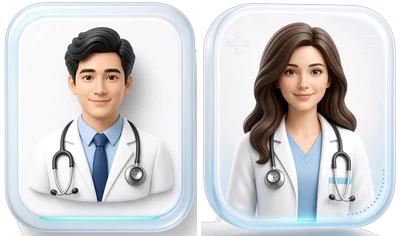
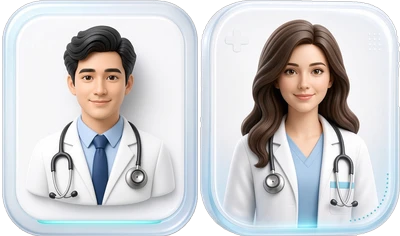
Add files via upload

diff --git a/farmacia.py b/farmacia.py
@@ -310,6 +310,7 @@ def schermata_farmacia():
         st.session_state.pop("fa_modulo_med", None)
         st.session_state.pop("fa_modulo_foglio", None)
         st.session_state.pop("fa_modulo_dottore", None)
+        st.session_state.pop("fa_modulo_sanitario", None)
         st.session_state["farmacia_aperta"] = False
         st.rerun()
     st.markdown("<div class='fa-hero'><h1>🏥 Farmacia</h1><p>Medicinali e scadenze della tua famiglia</p></div>",
@@ -325,6 +326,9 @@ def schermata_farmacia():
         return
     if st.session_state.get("fa_modulo_dottore"):
         _fa_modulo_dottore(**st.session_state["fa_modulo_dottore"])
+        return
+    if st.session_state.get("fa_modulo_sanitario"):
+        _fa_modulo_sanitario(**st.session_state["fa_modulo_sanitario"])
         return
 
     if st.button("🔎 Trova una farmacia aperta", key="fa_trova", type="primary", width="stretch"):
@@ -1060,6 +1064,7 @@ def _fa_esporta(f, pid, nomi):
         chiavi = ("medicinali", "terapie", "visite", "vaccinazioni")
         dati = {"profilo": nomi[pid],
                 "dottore": next((p.get("dottore") for p in f.get("profili", []) if p["id"] == pid), None),
+                "scheda_sanitaria": next((p.get("sanitario") for p in f.get("profili", []) if p["id"] == pid), None),
                 "gruppo_sanguigno": next((p.get("gruppo") for p in f.get("profili", []) if p["id"] == pid), None)}
         for k in chiavi:
             dati[k] = [x for x in f.get(k, []) if x.get("profilo", "p0") == pid]
@@ -1417,6 +1422,10 @@ def _fa_html_report(f, pid, nomi, da, a, righe, riepilogo, oggi_):
     e = html.escape
     terapie = [t_ for t_ in f.get("terapie", []) if t_.get("profilo", "p0") == pid and t_.get("stato", "attiva") == "attiva"]
     allergie = (f.get("allergie") or {}).get(pid, [])
+    san = next((p.get("sanitario") for p in f.get("profili", []) if p["id"] == pid), None) or {}
+    blocco_san = "".join(f"<h2>{tit}</h2><p>{e(san[k]).replace(chr(10), '<br>')}</p>"
+                         for tit, k in (("Patologie", "patologie"), ("Interventi subiti", "interventi"),
+                                        ("Storia clinica di rilievo", "storia")) if san.get(k))
     celle = lambda riga: "".join(f"<td>{e(str(c))}</td>" for c in riga)
     t_ter = "".join("<tr>" + celle([_fa_nome_med(f, t_.get("med"), t_.get("nome_med", "")), t_.get("quantita", ""),
                                     ", ".join(GIORNI_SETT[g] for g in t_.get("giorni", [])),
@@ -1435,6 +1444,7 @@ table{{border-collapse:collapse;width:100%;font-size:.85rem}}th,td{{border:1px s
 <p>Gruppo sanguigno: <b>{e(next((p.get("gruppo") for p in f.get("profili", []) if p["id"] == pid), None) or "non indicato")}</b></p>
 <div class="box"><b>Riepilogo:</b> {riepilogo}</div>
 <h2>Allergie e intolleranze dichiarate</h2><p>{e(", ".join(allergie)) if allergie else "Nessuna dichiarata"}</p>
+{blocco_san}
 <h2>Terapie attive</h2><table><tr><th>Medicinale</th><th>Quantità</th><th>Giorni</th><th>Orari</th><th>Periodo</th><th>Note</th></tr>{t_ter}</table>
 <h2>Assunzioni</h2><table><tr><th>Data</th><th>Ora prevista</th><th>Medicinale</th><th>Quantità</th><th>Stato</th><th>Registrata il</th></tr>{t_dosi}</table>
 <p class="nota">Documento creato dall'app «La nostra dispensa» con i dati inseriti dall'utente. «Presa» significa che la persona ha toccato
@@ -1506,8 +1516,10 @@ def _fa_icone_gruppi():
 
 
 def _fa_scheda_gruppo(nome, gruppo):
-    stile = ("display:flex;align-items:center;gap:10px;background:rgba(255,255,255,.78);border-radius:18px;"
-             "padding:8px 10px;margin:0;color:#1b2b2b;min-width:0")
+    stile = ("display:flex;align-items:center;gap:10px;background:rgba(255,255,255,.82);border-radius:18px;"
+             "padding:8px 10px;margin:0;color:#1b2b2b;min-width:0;border:2px solid rgba(183,28,28,.35);"
+             "animation:fa-pulso-r 2.6s infinite")
+    freccia = "<div style='margin-left:auto;font-size:1.8rem;color:#b71c1c;font-weight:900;line-height:1'>›</div>"
     if gruppo:
         try:
             uri = _fa_icone_gruppi().get(gruppo)
@@ -1515,13 +1527,15 @@ def _fa_scheda_gruppo(nome, gruppo):
             uri = None
         goccia = (f"<img src='{uri}' alt='{html.escape(gruppo)}' style='height:72px;flex:0 0 auto'>" if uri
                   else "<span style='font-size:2rem'>🩸</span>")
-        st.markdown(f"<div style='{stile}'>{goccia}<div style='min-width:0;word-break:break-word'>"
-                    f"<b style='font-size:1rem;line-height:1.15'>{html.escape(nome)}</b><br>"
-                    f"<span style='font-size:.78rem'>Gruppo sanguigno</span><br>"
-                    f"<b style='font-size:1.5rem;color:#b71c1c;line-height:1.1'>{html.escape(gruppo)}</b></div></div>",
-                    unsafe_allow_html=True)
+        corpo = (f"<b style='font-size:1rem;line-height:1.15'>{html.escape(nome)}</b><br>"
+                 f"<span style='font-size:.78rem'>Gruppo sanguigno</span><br>"
+                 f"<b style='font-size:1.5rem;color:#b71c1c;line-height:1.1'>{html.escape(gruppo)}</b>")
     else:
-        st.caption("🩸 Gruppo sanguigno non indicato: puoi sceglierlo in «Gestisci profili».")
+        goccia = "<span style='font-size:2rem'>🩸</span>"
+        corpo = (f"<b style='font-size:1rem;line-height:1.15'>{html.escape(nome)}</b><br>"
+                 "<span style='font-size:.78rem'>Gruppo sanguigno non indicato</span>")
+    st.markdown(f"<div style='{stile}'>{goccia}<div style='min-width:0;word-break:break-word'>{corpo}</div>{freccia}</div>",
+                unsafe_allow_html=True)
 
 
 def _fa_elenco_medicinali(f, pid, visibili, vista, oggi_):
@@ -1631,6 +1645,11 @@ def _fa_html_completo(d, oggi_):
                          + (f" · tel. {e(dott['telefono'])}" if dott.get("telefono") else "")
                          + (f" · {e(dott['email'])}" if dott.get("email") else "")
                          + (f" · {e(dott['indirizzo'])}" if dott.get("indirizzo") else "") + "</p>")
+        san = p.get("sanitario") or {}
+        for titolo_s, chiave_s in (("Patologie", "patologie"), ("Interventi subiti", "interventi"),
+                                   ("Storia clinica di rilievo", "storia"), ("Familiarità", "famiglia"), ("Altre informazioni", "altro")):
+            if san.get(chiave_s):
+                parti.append(f"<p><b>{titolo_s}:</b><br>{e(san[chiave_s]).replace(chr(10), '<br>')}</p>")
         meds = [m for m in f.get("medicinali", []) if m.get("profilo", "p0") == pid]
         parti.append(_fa_tabella_html("Medicinali", ["Nome", "Marca", "Principio attivo", "Dosaggio", "Forma", "Quantità",
                                                       "Scadenza", "Acquisto", "Note"],
@@ -1999,7 +2018,7 @@ def _fa_icone_dottori():
 
 
 def _fa_riga_profilo(profili, pid, nome, gruppo):
-    """Una sola striscia: a sinistra il gruppo sanguigno, a destra l'immagine del dottore, che è un pulsante."""
+    """Una sola striscia: a sinistra il gruppo sanguigno (apre la scheda sanitaria), a destra l'immagine del dottore."""
     dott = next((p.get("dottore") for p in profili if p["id"] == pid), None) or {}
     tipo = dott.get("tipo")
     try:
@@ -2016,25 +2035,40 @@ def _fa_riga_profilo(profili, pid, nome, gruppo):
         "{flex:0 0 112px !important;width:112px !important;min-width:112px !important}"
         ".st-key-fa_dottore_btn [data-testid='stButton'],.st-key-fa_dottore_btn2 [data-testid='stButton']{width:100%}"
         ".st-key-fa_dottore_btn button{width:100%;height:auto;aspect-ratio:200/236;min-height:0;border-radius:22px;"
-        "border:2px solid rgba(255,255,255,.95);padding:0;font-size:2.6rem;color:transparent;"
+        "border:0;padding:0;font-size:2.6rem;color:transparent;"
         f"background:{sfondo}rgba(255,255,255,.7);animation:fa-pulso 2.6s infinite}}"
         ".st-key-fa_dottore_btn button p{font-size:0}"
         "@keyframes fa-pulso{0%{box-shadow:0 0 0 0 rgba(13,148,136,.55)}70%{box-shadow:0 0 0 12px rgba(13,148,136,0)}"
         "100%{box-shadow:0 0 0 0 rgba(13,148,136,0)}}"
-        ".st-key-fa_dottore_btn2 button{width:100%;min-height:34px;border-radius:999px;border:0;padding:3px 6px;"
-        "background:linear-gradient(135deg,#00a98f,#0288d1);box-shadow:0 3px 0 rgba(0,70,90,.3)}"
-        ".st-key-fa_dottore_btn2 button p{color:#fff !important;font-weight:800 !important;font-size:.72rem !important;"
-        "line-height:1.1;margin:0}"
+        "@keyframes fa-pulso-r{0%{box-shadow:0 0 0 0 rgba(198,40,40,.5)}70%{box-shadow:0 0 0 10px rgba(198,40,40,0)}"
+        "100%{box-shadow:0 0 0 0 rgba(198,40,40,0)}}"
+        ".st-key-fa_dottore_btn2 button,.st-key-fa_gruppo_btn2 button{width:100%;min-height:34px;border-radius:999px;border:0;padding:3px 6px}"
+        ".st-key-fa_dottore_btn2 button{background:linear-gradient(135deg,#00a98f,#0288d1);box-shadow:0 3px 0 rgba(0,70,90,.3)}"
+        ".st-key-fa_gruppo_btn2 button{background:linear-gradient(135deg,#c62828,#ef5350);box-shadow:0 3px 0 rgba(110,20,20,.35)}"
+        ".st-key-fa_dottore_btn2 button p,.st-key-fa_gruppo_btn2 button p{color:#fff !important;font-weight:800 !important;"
+        "font-size:.78rem !important;line-height:1.1;margin:0}"
+        ".st-key-fa_gruppo_btn2 [data-testid='stButton']{width:100%}"
+        ".st-key-fa_gruppo_box{position:relative}"
+        ".st-key-fa_gruppo_btn{position:absolute !important;top:0;left:0;right:0;bottom:0;width:100% !important;"
+        "height:100% !important;margin:0 !important;z-index:3}"
+        ".st-key-fa_gruppo_btn [data-testid='stButton']{width:100%;height:100%}"
+        ".st-key-fa_gruppo_btn button{width:100%;height:100%;min-height:0;opacity:0;cursor:pointer}"
         "</style>", unsafe_allow_html=True)
     etichetta = "La mia dottoressa" if tipo == "Dottoressa" else "Il mio dottore"
     with st.container(key="azioni_gruppo"):
         c1, c2 = st.columns([3, 1.5], gap="small")
         with c1:
-            _fa_scheda_gruppo(nome, gruppo)
+            with st.container(key="fa_gruppo_box"):
+                _fa_scheda_gruppo(nome, gruppo)
+                premuto_g = st.button("Apri la scheda sanitaria", key="fa_gruppo_btn", width="stretch")
+            premuto_g2 = st.button("📋 Scheda sanitaria ›", key="fa_gruppo_btn2", width="stretch")
         with c2:
             premuto = st.button("🩺" if not uri else etichetta, key="fa_dottore_btn", help="Apri la scheda del dottore",
                                 width="stretch")
             premuto2 = st.button(etichetta + " ›", key="fa_dottore_btn2", help="Apri la scheda del dottore", width="stretch")
+    if premuto_g or premuto_g2:
+        st.session_state["fa_modulo_sanitario"] = {"pid": pid}
+        st.rerun()
     if premuto or premuto2:
         st.session_state["fa_modulo_dottore"] = {"pid": pid}
         st.rerun()
@@ -2162,11 +2196,19 @@ def _fa_modulo_dottore(pid):
         mia_email = st.text_input("La mia email (a cui il medico può rispondere)", value=mia_email_pred)
         st.markdown("**🕘 Orari settimanali dello studio**")
         orari_s = d.get("orari") or {}
-        tabella = pd.DataFrame([{"Giorno": g, "Mattina": (orari_s.get(g) or {}).get("m", ""),
-                                 "Pomeriggio": (orari_s.get(g) or {}).get("p", "")} for g in GIORNI_SETT])
-        mod = st.data_editor(tabella, hide_index=True, disabled=["Giorno"], key="fa_dott_orari_" + pid, width="stretch",
-                             column_config={"Mattina": st.column_config.TextColumn("Mattina", help="es. 9:00-12:00"),
-                                            "Pomeriggio": st.column_config.TextColumn("Pomeriggio", help="es. 15:00-18:00")})
+        righe_t, extra = [], set()
+        for g in GIORNI_SETT:
+            o = orari_s.get(g) or {}
+            ma, mb = _fa_parse_fascia(o.get("m"))
+            pa, pb = _fa_parse_fascia(o.get("p"))
+            extra |= {x for x in (ma, mb, pa, pb) if x}
+            righe_t.append({"Giorno": g, "Mattina da": ma or "—", "Mattina a": mb or "—",
+                            "Pomeriggio da": pa or "—", "Pomeriggio a": pb or "—"})
+        opzioni = ["—"] + sorted(set(ORARI_STUDIO) | extra)
+        st.caption("Tocca una casella e scegli l'orario dal menu. «—» vuol dire chiuso.")
+        mod = st.data_editor(pd.DataFrame(righe_t), hide_index=True, disabled=["Giorno"], key="fa_dott_orari_" + pid, width="stretch",
+                             column_config={c: st.column_config.SelectboxColumn(c, options=opzioni, required=True, width="small")
+                                            for c in ("Mattina da", "Mattina a", "Pomeriggio da", "Pomeriggio a")})
         with st.expander("🔁 Sostituto (se il medico è assente)"):
             sv = d.get("sostituto") or {}
             s_nome = st.text_input("Nominativo del sostituto", value=sv.get("nome", ""))
@@ -2180,10 +2222,24 @@ def _fa_modulo_dottore(pid):
         if email.strip() and not re.fullmatch(r"[^@\s]+@[^@\s]+\.[^@\s]{2,}", email.strip()):
             st.error("L'email del medico non sembra corretta.")
             return
+        orari_nuovi, errori_o = {}, []
+        for _, r in mod.iterrows():
+            fasce = {}
+            for chiave_f, ca, cb in (("m", "Mattina da", "Mattina a"), ("p", "Pomeriggio da", "Pomeriggio a")):
+                da_ = "" if r[ca] in (None, "—") else str(r[ca])
+                a_ = "" if r[cb] in (None, "—") else str(r[cb])
+                if da_ and a_ and a_ <= da_:
+                    errori_o.append(f"{r['Giorno']}: la fine deve essere dopo l'inizio.")
+                elif bool(da_) != bool(a_):
+                    errori_o.append(f"{r['Giorno']}: scegli sia l'inizio sia la fine.")
+                fasce[chiave_f] = f"{da_}-{a_}" if da_ and a_ else ""
+            orari_nuovi[r["Giorno"]] = fasce
+        if errori_o:
+            st.error("Controlla gli orari: " + " ".join(errori_o))
+            return
         nuovo = {"tipo": tipo, "nome": nome.strip(), "indirizzo": indirizzo.strip(), "telefono": telefono.strip(),
                  "email": email.strip(), "mia_email": mia_email.strip(),
-                 "orari": {r["Giorno"]: {"m": str(r["Mattina"] or "").strip(), "p": str(r["Pomeriggio"] or "").strip()}
-                           for _, r in mod.iterrows()},
+                 "orari": orari_nuovi,
                  "sostituto": {"nome": s_nome.strip(), "telefono": s_tel.strip(), "email": s_email.strip(),
                                "indirizzo": s_ind.strip(), "note": s_note.strip()},
                  "note": note.strip()}
@@ -2200,3 +2256,173 @@ def _fa_modulo_dottore(pid):
         st.session_state[chiave_mod] = False
         st.session_state["fa_msg"] = "✅ Dati del medico salvati."
         st.rerun()
+
+
+# =====================================================================
+# ORARI A TENDINA E SCHEDA SANITARIA
+# =====================================================================
+ORARI_STUDIO = [f"{h:02d}:{m:02d}" for h in range(6, 23) for m in (0, 15, 30, 45)]
+
+
+def _fa_parse_fascia(testo):
+    """Da «9:00-12:30» (o simili) a ('09:00', '12:30'); se non si capisce ('', '')."""
+    m = re.search(r"(\d{1,2})(?:[:.](\d{2}))?\s*[-–]\s*(\d{1,2})(?:[:.](\d{2}))?", testo or "")
+    if not m:
+        return "", ""
+    return f"{int(m.group(1)):02d}:{int(m.group(2) or 0):02d}", f"{int(m.group(3)):02d}:{int(m.group(4) or 0):02d}"
+
+
+def _fa_righe_html(testo, vuoto="— nessuna indicazione —"):
+    righe = [r.strip() for r in (testo or "").splitlines() if r.strip()]
+    if not righe:
+        return f"<span style='opacity:.6'>{vuoto}</span>"
+    return "<br>".join("• " + html.escape(r) for r in righe)
+
+
+def _fa_sezione(titolo, corpo_html):
+    st.markdown(f"<div style='background:rgba(255,255,255,.8);border-radius:16px;padding:10px 14px;margin:8px 0;color:#1b2b2b'>"
+                f"<b>{titolo}</b><div style='margin-top:4px;line-height:1.6'>{corpo_html}</div></div>", unsafe_allow_html=True)
+
+
+def _fa_html_sanitaria(f, pid, intestatario):
+    e = html.escape
+    D = lambda iso: data_it(iso) if iso else ""
+    profilo = next((p for p in _fa_profili(f) if p["id"] == pid), {})
+    san = profilo.get("sanitario") or {}
+    dott = profilo.get("dottore") or {}
+    allergie = (f.get("allergie") or {}).get(pid, [])
+    vacc = sorted([v for v in f.get("vaccinazioni", []) if v.get("profilo", "p0") == pid], key=lambda v: v.get("data", ""), reverse=True)
+    ter = [t_ for t_ in f.get("terapie", []) if t_.get("profilo", "p0") == pid and t_.get("stato", "attiva") == "attiva"]
+
+    def blocco(titolo, testo):
+        return f"<h2>{titolo}</h2><p>{e(testo).replace(chr(10), '<br>') if testo else '<i>nessuna indicazione</i>'}</p>"
+    vac_html = "".join(f"<li>{e(v['nome'])} – {D(v.get('data'))}" + (f" ({e(v['dose'])})" if v.get("dose") else "")
+                       + (f" – richiamo {D(v['richiamo'])}" if v.get("richiamo") else "") + "</li>" for v in vacc)
+    ter_html = "".join(f"<li>{e(_fa_nome_med(f, t_.get('med'), t_.get('nome_med', '')))} – {e(t_.get('quantita', ''))} – "
+                       f"{e(', '.join(t_.get('orari', [])))}</li>" for t_ in ter)
+    medico = ""
+    if dott.get("nome") or dott.get("telefono"):
+        medico = f"<p><b>Medico:</b> {e(dott.get('nome', ''))} {e(dott.get('telefono', ''))} {e(dott.get('email', ''))}</p>"
+    allergie_html = e(', '.join(allergie)) if allergie else '<i>nessuna dichiarata</i>'
+    vacc_blocco = ('<ul>' + vac_html + '</ul>') if vac_html else '<p><i>nessuna registrata</i></p>'
+    ter_blocco = ('<ul>' + ter_html + '</ul>') if ter_html else '<p><i>nessuna</i></p>'
+    return f"""<!doctype html><html lang="it"><head><meta charset="utf-8"><meta name="viewport" content="width=device-width, initial-scale=1">
+<title>Scheda sanitaria - {e(profilo.get('nome', ''))}</title>
+<style>body{{font-family:Arial,sans-serif;margin:16px;color:#111}}h1{{font-size:1.4rem}}h2{{font-size:1.05rem;margin:16px 0 2px;border-bottom:1px solid #999}}
+.box{{background:#f3f3f3;padding:8px 12px;border-radius:8px}}.nota{{font-size:.8rem;color:#444;margin-top:22px}}</style></head><body>
+<h1>Scheda sanitaria – {e(profilo.get('nome', ''))}</h1>
+<div class="box"><b>Intestatario:</b> {e(intestatario)}<br><b>Gruppo sanguigno:</b> {e(profilo.get('gruppo') or 'non indicato')}<br>
+<b>Aggiornata il</b> {data_it(oggi().isoformat())}</div>{medico}
+<h2>Allergie e intolleranze ai farmaci</h2><p>{allergie_html}</p>
+{blocco('Patologie', san.get('patologie'))}{blocco('Interventi subiti', san.get('interventi'))}
+{blocco('Storia clinica di rilievo', san.get('storia'))}{blocco('Familiarità', san.get('famiglia'))}
+{blocco('Altre informazioni', san.get('altro'))}
+<h2>Vaccinazioni</h2>{vacc_blocco}
+<h2>Terapie in corso</h2>{ter_blocco}
+<p class="nota">Documento creato dall'app «La nostra dispensa» con i dati inseriti dall'utente: non è verificato da un medico.</p>
+</body></html>"""
+
+
+def _fa_modulo_sanitario(pid):
+    f = _fa_dati()
+    profili = _fa_profili(f)
+    profilo = next((p for p in profili if p["id"] == pid), profili[0])
+    san = profilo.get("sanitario") or {}
+    dott = profilo.get("dottore") or {}
+    allergie = (f.get("allergie") or {}).get(pid, [])
+    dati_utente = carica_dati(crea_archivio(), st.session_state["percorso"])
+    anag = dati_utente.get("anagrafica") or {}
+    intestatario = " ".join(x for x in (anag.get("nome"), anag.get("cognome")) if x) or profilo.get("nome", "")
+    chiave_mod = "fa_san_modifica_" + pid
+    modifica = st.session_state.get(chiave_mod, False)
+    e = html.escape
+
+    if st.button("← Torna alla Farmacia", key="fa_san_indietro"):
+        st.session_state.pop("fa_modulo_sanitario", None)
+        st.session_state.pop(chiave_mod, None)
+        st.rerun()
+    st.subheader(f"📋 Scheda sanitaria · {profilo.get('nome', '')}")
+
+    if modifica:
+        # ------------------------------------------------ MODIFICA
+        if st.button("Annulla la modifica", key="fa_san_annulla"):
+            st.session_state[chiave_mod] = False
+            st.rerun()
+        st.markdown("**✏ Compila quello che ti serve** e tocca **Salva** in fondo. Tutto è facoltativo.")
+        with st.form("fa_form_san_" + pid):
+            patologie = st.text_area("🩺 Patologie (una per riga, con l'anno se vuoi)", value=san.get("patologie", ""),
+                                     placeholder="es. Ipertensione (dal 2015)\nDiabete tipo 2", height=110)
+            all_t = st.text_area("💊 Allergie e intolleranze ai farmaci (separate da virgola)", value=", ".join(allergie),
+                                 placeholder="es. penicillina, ibuprofene",
+                                 help="Sono le stesse del riquadro Allergie: l'app le usa per avvisarti sui medicinali.")
+            interventi = st.text_area("🏥 Interventi subiti (uno per riga: anno, intervento, dove)", value=san.get("interventi", ""),
+                                      placeholder="es. 2019 – Appendicectomia – Ospedale Molinette", height=110)
+            storia = st.text_area("📜 Storia clinica di rilievo", value=san.get("storia", ""),
+                                  placeholder="Ricoveri, malattie importanti, esami da ricordare…", height=130)
+            famiglia = st.text_area("👪 Malattie in famiglia (familiarità)", value=san.get("famiglia", ""), height=90)
+            altro = st.text_area("➕ Altre informazioni importanti", value=san.get("altro", ""),
+                                 placeholder="es. porta un pacemaker, donatore di organi, contatto di emergenza…", height=110)
+            invio = st.form_submit_button("💾 Salva la scheda sanitaria", type="primary", width="stretch")
+        if invio:
+            nuovo = {"patologie": patologie.strip(), "interventi": interventi.strip(), "storia": storia.strip(),
+                     "famiglia": famiglia.strip(), "altro": altro.strip()}
+            lista_all = [x.strip() for x in re.split(r"[,;\n]", all_t) if x.strip()]
+
+            def _scrivi(f):
+                for p in f["profili"]:
+                    if p["id"] == pid:
+                        p["sanitario"] = nuovo
+                f.setdefault("allergie", {})[pid] = lista_all
+            try:
+                _fa_salva(_scrivi, "Farmacia: scheda sanitaria")
+            except Exception as ex:
+                st.error(f"Non sono riuscito a salvare: {ex}")
+                return
+            st.session_state[chiave_mod] = False
+            st.session_state["fa_msg"] = "✅ Scheda sanitaria salvata."
+            st.rerun()
+        return
+
+    # ------------------------------------------------ SCHEDA (sola lettura)
+    gruppo = profilo.get("gruppo")
+    try:
+        uri = _fa_icone_gruppi().get(gruppo) if gruppo else None
+    except Exception:
+        uri = None
+    st.markdown(
+        "<div style='display:flex;align-items:center;gap:14px;background:rgba(255,255,255,.82);border-radius:18px;padding:10px 14px;color:#1b2b2b'>"
+        + (f"<img src='{uri}' alt='' style='height:90px'>" if uri else "<span style='font-size:2.4rem'>🩸</span>")
+        + f"<div><b style='font-size:1.15rem'>{e(intestatario)}</b><br>Gruppo sanguigno: "
+        + f"<b style='font-size:1.6rem;color:#b71c1c'>{e(gruppo or 'non indicato')}</b></div></div>", unsafe_allow_html=True)
+    if st.button("✏ Modifica la scheda sanitaria", key="fa_san_modifica_btn", type="primary", width="stretch"):
+        st.session_state[chiave_mod] = True
+        st.rerun()
+    if dott.get("nome") or dott.get("telefono"):
+        _fa_sezione("👩⚕ Medico curante" if dott.get("tipo") == "Dottoressa" else "👨⚕ Medico curante",
+                    e(" · ".join(x for x in (dott.get("nome"), dott.get("telefono")) if x)))
+    _fa_sezione("💊 Allergie e intolleranze ai farmaci",
+                e(", ".join(allergie)) if allergie else "<span style='opacity:.6'>— nessuna dichiarata —</span>")
+    _fa_sezione("🩺 Patologie", _fa_righe_html(san.get("patologie")))
+    _fa_sezione("🏥 Interventi subiti", _fa_righe_html(san.get("interventi")))
+    _fa_sezione("📜 Storia clinica di rilievo",
+                e(san.get("storia", "")).replace("\n", "<br>") or "<span style='opacity:.6'>— nessuna indicazione —</span>")
+    if san.get("famiglia"):
+        _fa_sezione("👪 Malattie in famiglia", e(san["famiglia"]).replace("\n", "<br>"))
+    if san.get("altro"):
+        _fa_sezione("➕ Altre informazioni", e(san["altro"]).replace("\n", "<br>"))
+    vacc = sorted([v for v in f.get("vaccinazioni", []) if v.get("profilo", "p0") == pid], key=lambda v: v.get("data", ""), reverse=True)
+    righe_v = "<br>".join(f"• {e(v['nome'])} – {data_it(v['data'])}" + (f" ({e(v['dose'])})" if v.get("dose") else "")
+                          + (f" – richiamo {data_it(v['richiamo'])}" if v.get("richiamo") else "") for v in vacc)
+    pagine = len((f.get("vaccini_doc") or {}).get(pid, []))
+    _fa_sezione("💉 Vaccinazioni", (righe_v or "<span style='opacity:.6'>— nessuna registrata —</span>")
+                + (f"<br><small>📄 Documento vaccinale: {pagine} pagina/e</small>" if pagine else "")
+                + "<br><small>Si gestiscono nella scheda 💉 Vaccini.</small>")
+    ter = [t_ for t_ in f.get("terapie", []) if t_.get("profilo", "p0") == pid and t_.get("stato", "attiva") == "attiva"]
+    if ter:
+        _fa_sezione("📅 Terapie in corso", "<br>".join(
+            f"• {e(_fa_nome_med(f, t_.get('med'), t_.get('nome_med', '')))} – {e(t_.get('quantita', ''))} – {e(', '.join(t_.get('orari', [])))}"
+            for t_ in ter))
+    st.download_button("📄 Scarica la scheda (da stampare o inviare)", _fa_html_sanitaria(f, pid, intestatario).encode("utf-8"),
+                       file_name=f"scheda_sanitaria_{profilo.get('nome', '').replace(' ', '_')}_{oggi().isoformat()}.html",
+                       mime="text/html", width="stretch")
+    st.caption("Contiene dati sanitari: condividila solo con chi deve vederla.")
